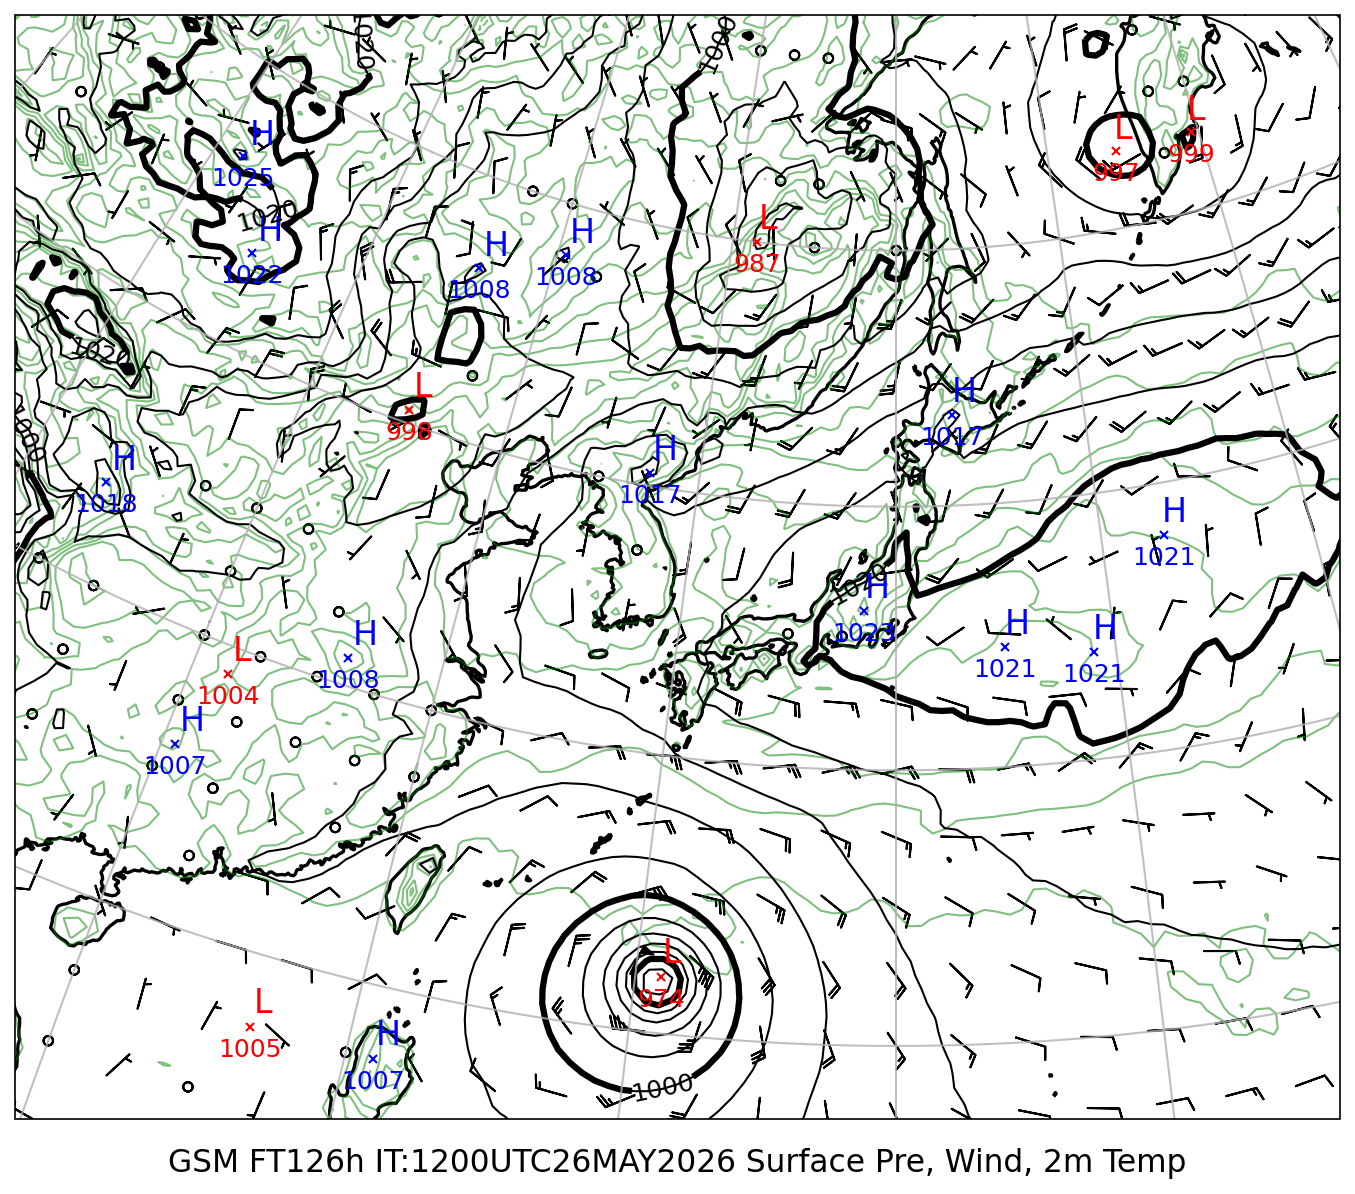
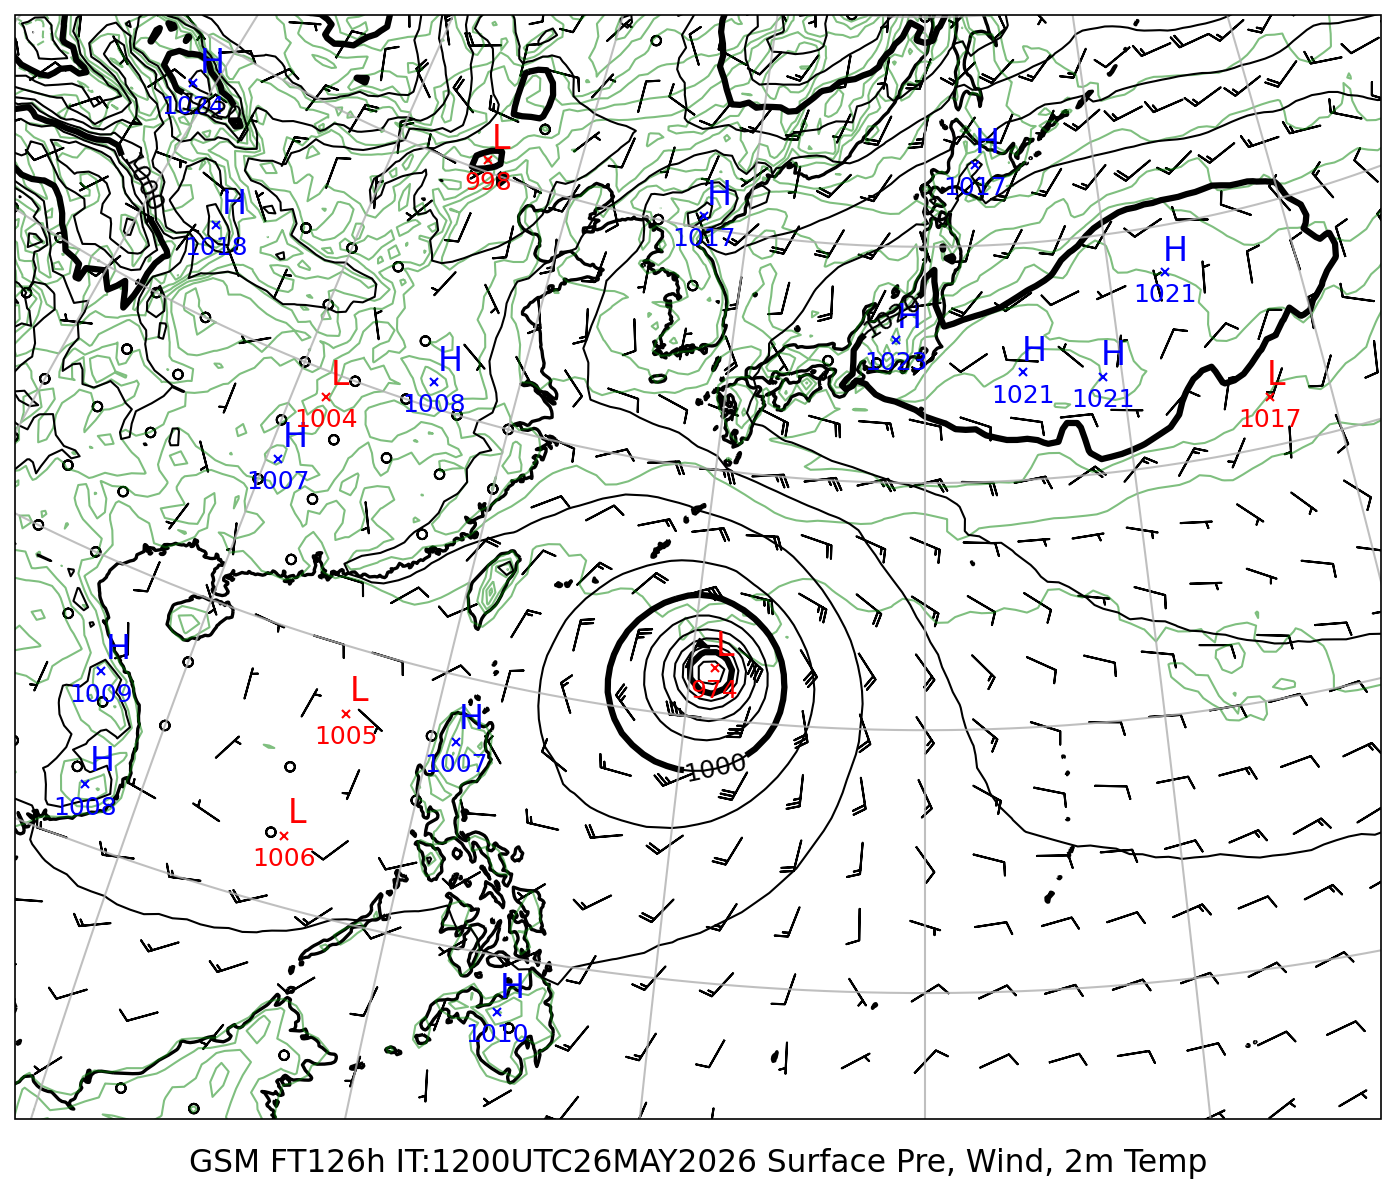
report: 地上気圧比較レポート GSM+ECM FT6-126_24h (2026052612)

diff --git a/reports/2026052612/srf_comparison_FT6-126_24h.md b/reports/2026052612/srf_comparison_FT6-126_24h.md
@@ -1,0 +1,43 @@
+# 地上気圧 GSM/ECMWF 比較レポート
+
+**初期時刻**: 2026/05/26 12UTC
+
+---
+
+## 地上気圧・10m風・2m気温
+
+#### FT=6h (5/27 3時JST)
+
+| GSM | ECMWF |
+|:---:|:---:|
+| ![GSM FT=6h](./2026052612_FT006h_GSM_SurfacePressure.png) | ![ECMWF FT=6h](./2026052612_FT006h_ECM_SurfacePressure.png) |
+
+#### FT=30h (5/28 3時JST)
+
+| GSM | ECMWF |
+|:---:|:---:|
+| ![GSM FT=30h](./2026052612_FT030h_GSM_SurfacePressure.png) | ![ECMWF FT=30h](./2026052612_FT030h_ECM_SurfacePressure.png) |
+
+#### FT=54h (5/29 3時JST)
+
+| GSM | ECMWF |
+|:---:|:---:|
+| ![GSM FT=54h](./2026052612_FT054h_GSM_SurfacePressure.png) | ![ECMWF FT=54h](./2026052612_FT054h_ECM_SurfacePressure.png) |
+
+#### FT=78h (5/30 3時JST)
+
+| GSM | ECMWF |
+|:---:|:---:|
+| ![GSM FT=78h](./2026052612_FT078h_GSM_SurfacePressure.png) | ![ECMWF FT=78h](./2026052612_FT078h_ECM_SurfacePressure.png) |
+
+#### FT=102h (5/31 3時JST)
+
+| GSM | ECMWF |
+|:---:|:---:|
+| ![GSM FT=102h](./2026052612_FT102h_GSM_SurfacePressure.png) | ![ECMWF FT=102h](./2026052612_FT102h_ECM_SurfacePressure.png) |
+
+#### FT=126h (6/1 3時JST)
+
+| GSM | ECMWF |
+|:---:|:---:|
+| ![GSM FT=126h](./2026052612_FT126h_GSM_SurfacePressure.png) | ![ECMWF FT=126h](./2026052612_FT126h_ECM_SurfacePressure.png) |
